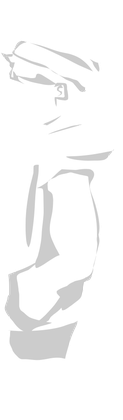
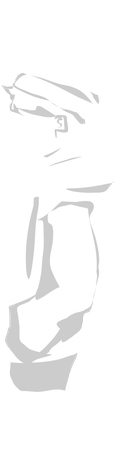
Mais andantes no carregamento (7 pessoas comuns) e Nobara como aparição rara
Claude-Session: https://claude.ai/code/session_01Tm8GAvJJ9y8sLRD2qUqjbi

Changed region(s): [[0.0244, 0.0929, 0.9024, 0.8667], [0.7805, 0.5881, 0.8049, 0.65], [0.3659, 0.3405, 0.4146, 0.3714]]

diff --git a/index.html b/index.html
@@ -2759,14 +2759,16 @@ function renderCombate(){
 }
 
 /* ---------- Carregando ao trocar de cidade ---------- */
-const ANDANTES={passante1:'img/andante-passante1.png',passante2:'img/andante-passante2.png',passante3:'img/andante-passante3.png',gojo:'img/andante-gojo.png',itadori:'img/andante-itadori.png'};
+const ANDANTES={passante1:'img/andante-passante1.png',passante2:'img/andante-passante2.png',passante3:'img/andante-passante3.png',passante4:'img/andante-passante4.png',passante5:'img/andante-passante5.png',passante6:'img/andante-passante6.png',passante7:'img/andante-passante7.png',gojo:'img/andante-gojo.png',itadori:'img/andante-itadori.png',nobara:'img/andante-nobara.png'};
 let carreg=null,carregTimer=null;
 function mostrarCarregando(id,precisaNarrar){
   const box=$('#carregando');if(!box)return;const l=locById(raiz(id));
   $('#car-nome').textContent=l?.curto||'Tóquio';
-  const comuns=['passante1','passante2','passante3'];const lista=[];const n=4+Math.floor(Math.random()*2);
-  for(let i=0;i<n;i++)lista.push({k:comuns[Math.floor(Math.random()*comuns.length)],conhecido:false});
-  const r=Math.random();if(r<0.30)lista.push({k:Math.random()<0.5?'gojo':'itadori',conhecido:true});if(r<0.06)lista.push({k:'gojo',conhecido:true},{k:'itadori',conhecido:true});
+  const comuns=['passante1','passante2','passante3','passante4','passante5','passante6','passante7'].sort(()=>Math.random()-.5);const lista=[];const n=4+Math.floor(Math.random()*2);
+  for(let i=0;i<n;i++)lista.push({k:comuns[i%comuns.length],conhecido:false});
+  /* personagens conhecidos: Gojo ou Itadori às vezes, os dois juntos bem às vezes, Nobara raríssima */
+  const r=Math.random();if(r<0.05)lista.push({k:'gojo',conhecido:true},{k:'itadori',conhecido:true});else if(r<0.28)lista.push({k:Math.random()<0.5?'gojo':'itadori',conhecido:true});
+  if(Math.random()<0.08)lista.push({k:'nobara',conhecido:true});
   const larg=box.parentElement.clientWidth||1000;
   $('#car-cena').innerHTML=lista.sort(()=>Math.random()-.5).map((a,i)=>{const prof=0.6+Math.random()*0.4;const dur=(7+Math.random()*7)/(prof);const esq=Math.random()<0.5;
     return `<div class="andante${esq?' esq':''}${a.conhecido?' conhecido':''}" style="--h:${Math.round(54+prof*34)}%;--dur:${dur.toFixed(1)}s;--atraso:-${(Math.random()*dur).toFixed(1)}s;--larg:${larg}px;--x0:${Math.round(Math.random()*80)}vw;z-index:${Math.round(prof*10)};opacity:${(0.75+prof*0.25).toFixed(2)}"><img src="${ANDANTES[a.k]}" alt="" draggable="false"></div>`;}).join('');

diff --git a/src/app.src.html b/src/app.src.html
@@ -2757,14 +2757,16 @@ function renderCombate(){
 }
 
 /* ---------- Carregando ao trocar de cidade ---------- */
-const ANDANTES={passante1:'img/andante-passante1.png',passante2:'img/andante-passante2.png',passante3:'img/andante-passante3.png',gojo:'img/andante-gojo.png',itadori:'img/andante-itadori.png'};
+const ANDANTES={passante1:'img/andante-passante1.png',passante2:'img/andante-passante2.png',passante3:'img/andante-passante3.png',passante4:'img/andante-passante4.png',passante5:'img/andante-passante5.png',passante6:'img/andante-passante6.png',passante7:'img/andante-passante7.png',gojo:'img/andante-gojo.png',itadori:'img/andante-itadori.png',nobara:'img/andante-nobara.png'};
 let carreg=null,carregTimer=null;
 function mostrarCarregando(id,precisaNarrar){
   const box=$('#carregando');if(!box)return;const l=locById(raiz(id));
   $('#car-nome').textContent=l?.curto||'Tóquio';
-  const comuns=['passante1','passante2','passante3'];const lista=[];const n=4+Math.floor(Math.random()*2);
-  for(let i=0;i<n;i++)lista.push({k:comuns[Math.floor(Math.random()*comuns.length)],conhecido:false});
-  const r=Math.random();if(r<0.30)lista.push({k:Math.random()<0.5?'gojo':'itadori',conhecido:true});if(r<0.06)lista.push({k:'gojo',conhecido:true},{k:'itadori',conhecido:true});
+  const comuns=['passante1','passante2','passante3','passante4','passante5','passante6','passante7'].sort(()=>Math.random()-.5);const lista=[];const n=4+Math.floor(Math.random()*2);
+  for(let i=0;i<n;i++)lista.push({k:comuns[i%comuns.length],conhecido:false});
+  /* personagens conhecidos: Gojo ou Itadori às vezes, os dois juntos bem às vezes, Nobara raríssima */
+  const r=Math.random();if(r<0.05)lista.push({k:'gojo',conhecido:true},{k:'itadori',conhecido:true});else if(r<0.28)lista.push({k:Math.random()<0.5?'gojo':'itadori',conhecido:true});
+  if(Math.random()<0.08)lista.push({k:'nobara',conhecido:true});
   const larg=box.parentElement.clientWidth||1000;
   $('#car-cena').innerHTML=lista.sort(()=>Math.random()-.5).map((a,i)=>{const prof=0.6+Math.random()*0.4;const dur=(7+Math.random()*7)/(prof);const esq=Math.random()<0.5;
     return `<div class="andante${esq?' esq':''}${a.conhecido?' conhecido':''}" style="--h:${Math.round(54+prof*34)}%;--dur:${dur.toFixed(1)}s;--atraso:-${(Math.random()*dur).toFixed(1)}s;--larg:${larg}px;--x0:${Math.round(Math.random()*80)}vw;z-index:${Math.round(prof*10)};opacity:${(0.75+prof*0.25).toFixed(2)}"><img src="${ANDANTES[a.k]}" alt="" draggable="false"></div>`;}).join('');
